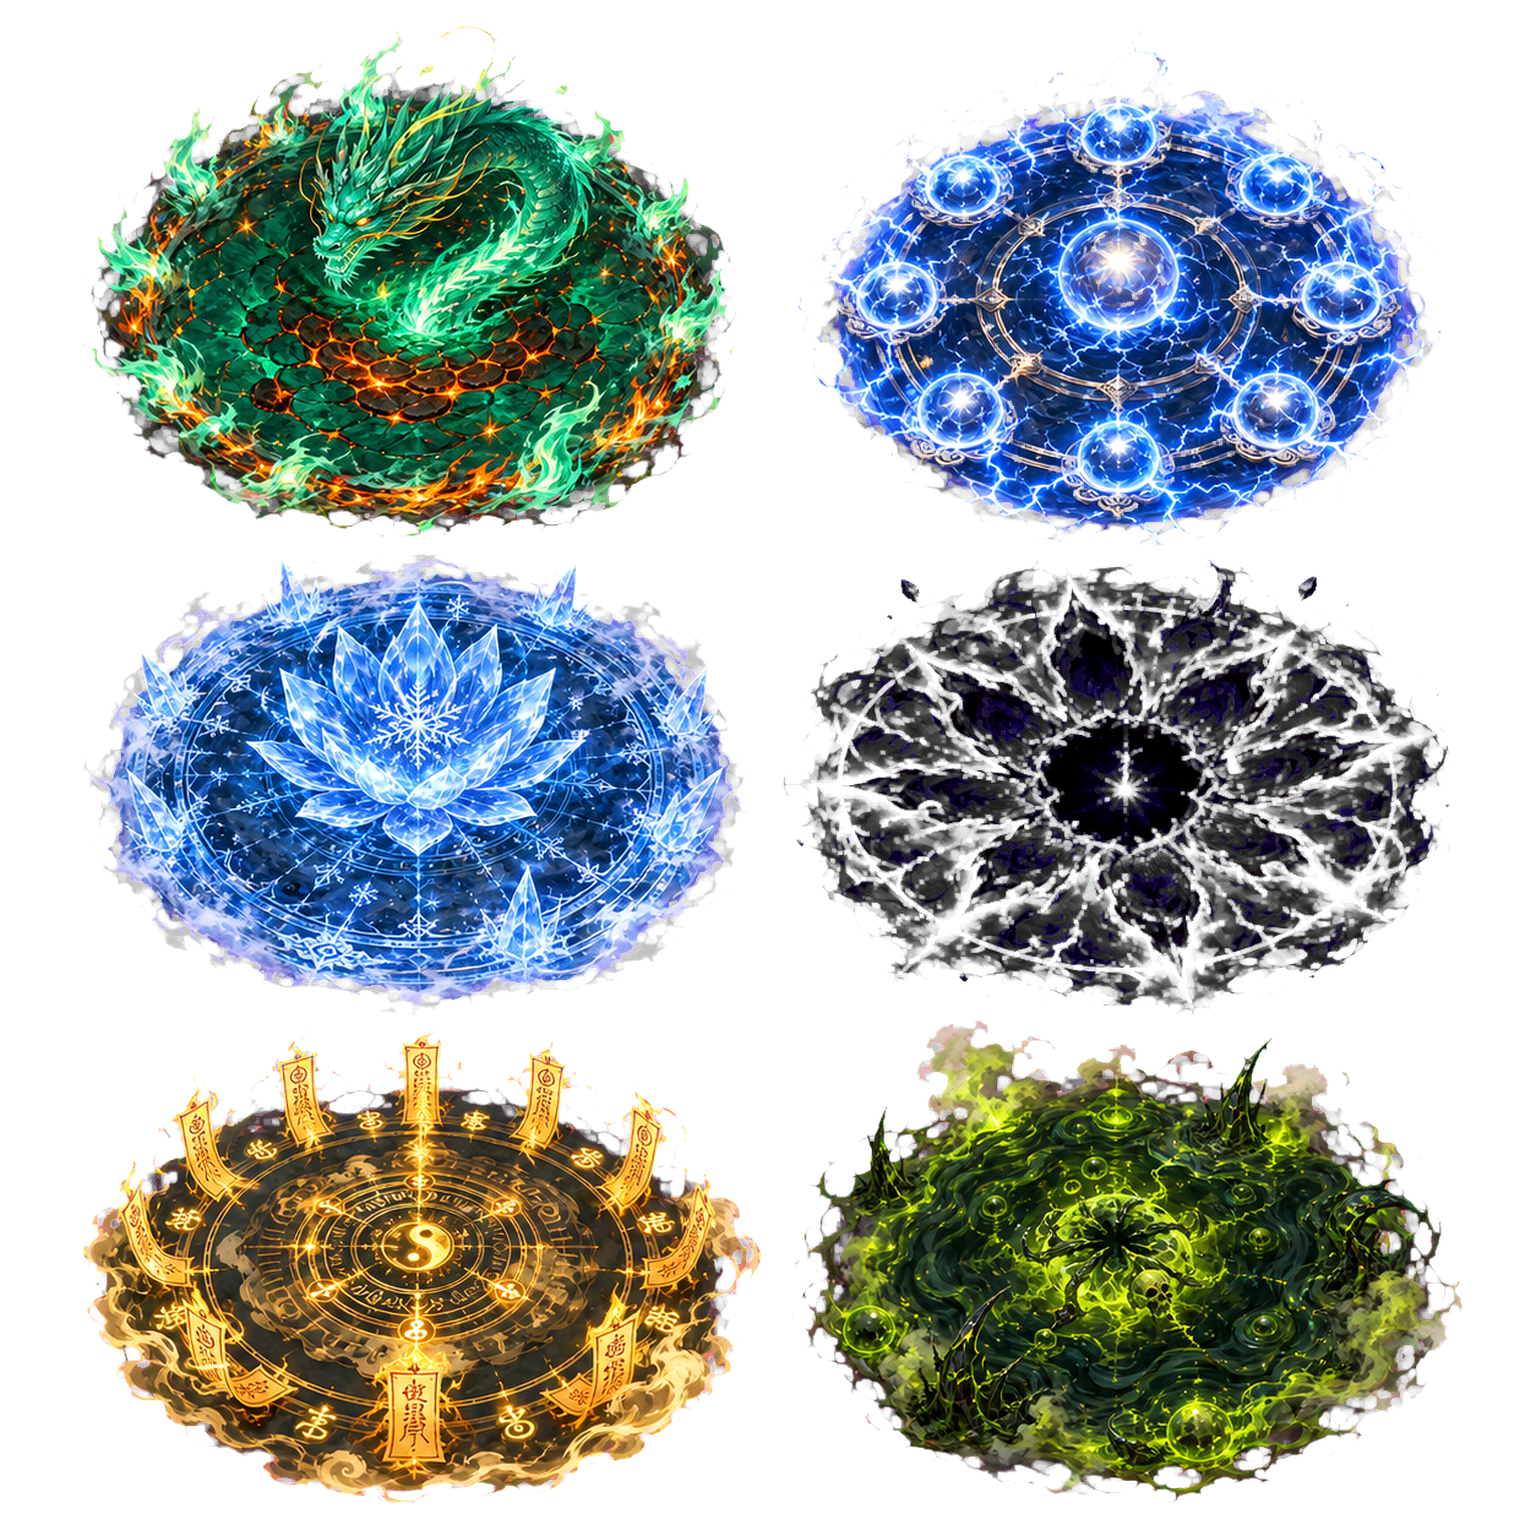
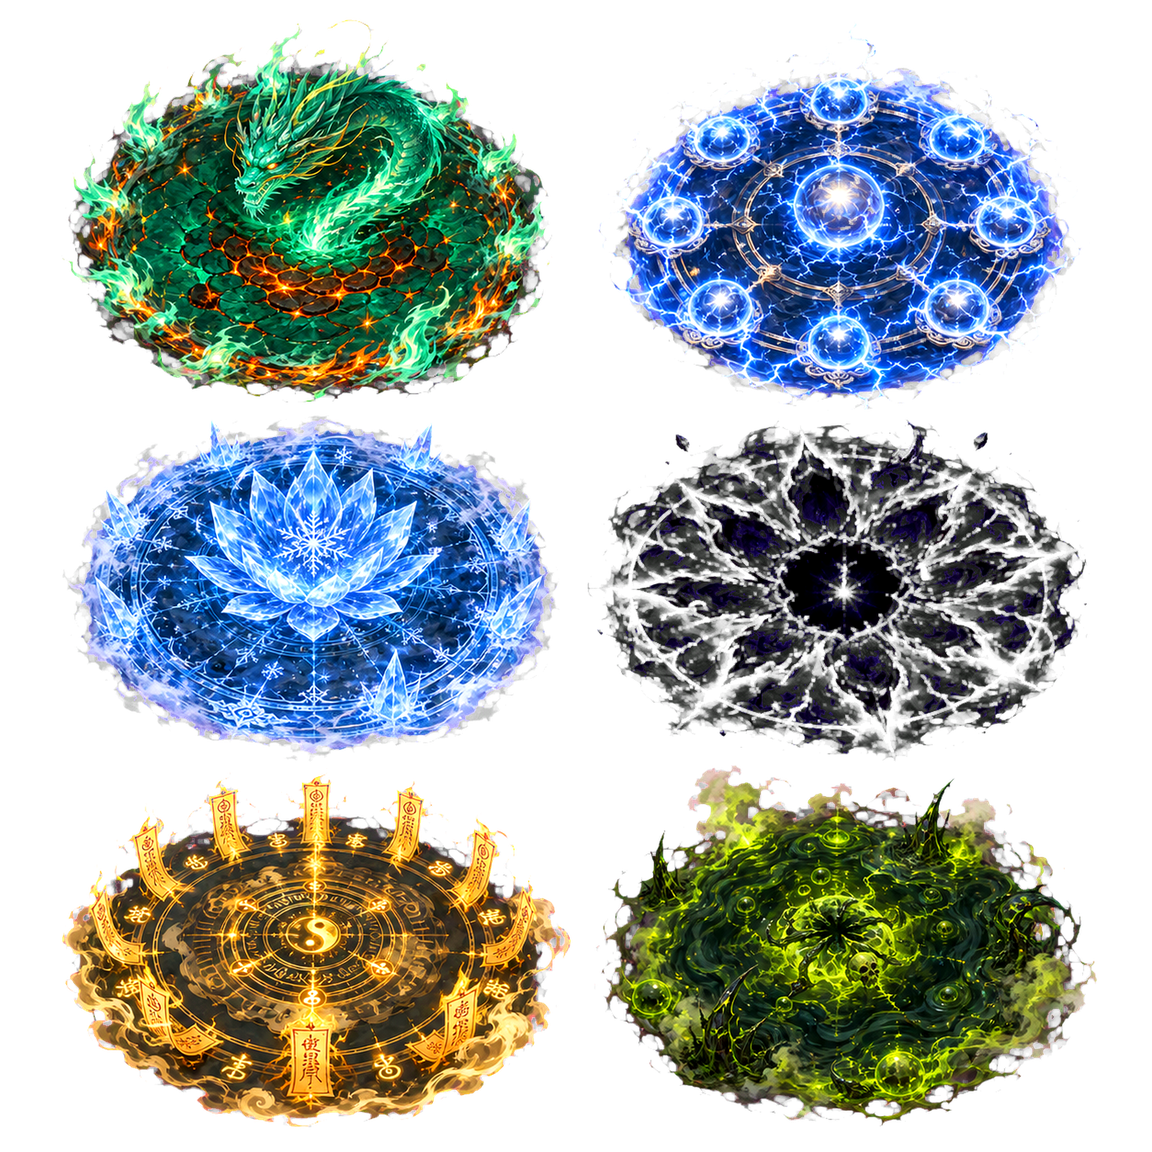
Prevent legacy area effect overlap

diff --git a/game.js b/game.js
@@ -535,12 +535,12 @@
   };
 
   const areaEventFrames = {
-    fireDragonField: { x: 0, y: 0, w: 768, h: 512 },
-    thunderPearlArray: { x: 768, y: 0, w: 768, h: 512 },
-    frostLotusField: { x: 0, y: 512, w: 768, h: 512 },
-    voidCrackField: { x: 768, y: 512, w: 768, h: 512 },
-    talismanSealField: { x: 0, y: 1024, w: 768, h: 512 },
-    plagueMireField: { x: 768, y: 1024, w: 768, h: 512 }
+    fireDragonField: { x: 0, y: 0, w: 576, h: 384 },
+    thunderPearlArray: { x: 576, y: 0, w: 576, h: 384 },
+    frostLotusField: { x: 0, y: 384, w: 576, h: 384 },
+    voidCrackField: { x: 576, y: 384, w: 576, h: 384 },
+    talismanSealField: { x: 0, y: 768, w: 576, h: 384 },
+    plagueMireField: { x: 576, y: 768, w: 576, h: 384 }
   };
 
   const hitFrames = {
@@ -963,7 +963,7 @@
     forceNextChestEvolution: false,
     lastResult: null,
     quality: { pressure: 0, avgWorkMs: 0 },
-    qa: { mode: null, autoChoices: false, autoMove: false, timeScale: 1, maxSteps: 1, syncRunning: false, syncSteps: 0, syncMs: 0, visualDone: false, groundDecalDraws: 0, areaEventDraws: 0, areaFxDraws: 0, environmentPropDraws: 0, atmosphereDraws: 0, swarmPressureDraws: 0, heroFxDraws: 0, screenStrikeDraws: 0, ultimateCastDraws: 0, unitAuraDraws: 0, hitAtlasDraws: 0, threatDraws: 0, hordeSpriteDraws: 0, hordeSpritesSkipped: 0, hordeRenderBudget: 0, hordeBudgetUsed: 0, projectileSpriteDraws: 0, projectilesSkipped: 0, projectileRenderBudget: 0, motionTrailDraws: 0, motionTrailRenderBudget: 0, hostileProjectileDraws: 0, hostileProjectilesSkipped: 0, hostileProjectileRenderBudget: 0, particlesRendered: 0, particlesCulled: 0, swarmImpostorDraws: 0, legacyWorldOverlays: 0, legacyVectorOverlays: 0, legacyFallbackFx: 0, legacyCombatAtlasDraws: 0, premiumAtlasFxDraws: 0, renderDpr: 1 },
+    qa: { mode: null, autoChoices: false, autoMove: false, timeScale: 1, maxSteps: 1, syncRunning: false, syncSteps: 0, syncMs: 0, visualDone: false, groundDecalDraws: 0, areaEventDraws: 0, areaFxDraws: 0, environmentPropDraws: 0, atmosphereDraws: 0, swarmPressureDraws: 0, heroFxDraws: 0, screenStrikeDraws: 0, ultimateCastDraws: 0, unitAuraDraws: 0, hitAtlasDraws: 0, threatDraws: 0, hordeSpriteDraws: 0, hordeSpritesSkipped: 0, hordeRenderBudget: 0, hordeBudgetUsed: 0, projectileSpriteDraws: 0, projectilesSkipped: 0, projectileRenderBudget: 0, motionTrailDraws: 0, motionTrailRenderBudget: 0, hostileProjectileDraws: 0, hostileProjectilesSkipped: 0, hostileProjectileRenderBudget: 0, particlesRendered: 0, particlesCulled: 0, swarmImpostorDraws: 0, legacyWorldOverlays: 0, legacyVectorOverlays: 0, legacyAreaFallbackDraws: 0, legacyFallbackFx: 0, legacyCombatAtlasDraws: 0, premiumAtlasFxDraws: 0, renderDpr: 1 },
     wave: 1,
     spawnTimer: 0,
     eliteSchedule: [90, 180, 300, 450, 600, 760],
@@ -1457,6 +1457,7 @@
     state.qa.particlesCulled = 0;
     state.qa.legacyWorldOverlays = 0;
     state.qa.legacyVectorOverlays = 0;
+    state.qa.legacyAreaFallbackDraws = 0;
     state.qa.legacyFallbackFx = 0;
     state.qa.legacyCombatAtlasDraws = 0;
     state.qa.premiumAtlasFxDraws = 0;
@@ -3130,6 +3131,7 @@
     document.body.dataset.qaSwarmImpostorDraws = String(state.qa.swarmImpostorDraws || 0);
     document.body.dataset.qaLegacyWorldOverlays = String(state.qa.legacyWorldOverlays || 0);
     document.body.dataset.qaLegacyVectorOverlays = String(state.qa.legacyVectorOverlays || 0);
+    document.body.dataset.qaLegacyAreaFallbackDraws = String(state.qa.legacyAreaFallbackDraws || 0);
     document.body.dataset.qaLegacyFallbackFx = String(state.qa.legacyFallbackFx || 0);
     document.body.dataset.qaLegacyCombatAtlasDraws = String(state.qa.legacyCombatAtlasDraws || 0);
     document.body.dataset.qaPremiumAtlasFxDraws = String(state.qa.premiumAtlasFxDraws || 0);
@@ -3361,6 +3363,7 @@
     resize();
     state.qa.legacyWorldOverlays = 0;
     state.qa.legacyVectorOverlays = 0;
+    state.qa.legacyAreaFallbackDraws = 0;
     state.qa.legacyFallbackFx = 0;
     state.qa.legacyCombatAtlasDraws = 0;
     state.qa.premiumAtlasFxDraws = 0;
@@ -4149,6 +4152,7 @@
   function drawSoftAreaFallback(area, x, y, alpha, now, compact = false) {
     if (!allowLegacyFallbackFx()) return false;
     recordLegacyFallbackFx();
+    if (QA_MODE) state.qa.legacyAreaFallbackDraws = (state.qa.legacyAreaFallbackDraws || 0) + 1;
     const stretch = area.kind === "plagueDomain" || area.kind === "poison" || area.kind === "fireSea" ? 1.18 : 1;
     const radius = area.r * (compact ? 0.82 : 1);
     ctx.save();
@@ -6258,8 +6262,7 @@
     };
   }
 
-  function areaEventSpec(area, now) {
-    if (!premiumAreaEventAtlasReady()) return null;
+  function areaEventFrameId(area) {
     let id = null;
     if (area.kind === "voidSeal") id = "voidCrackField";
     else if (area.kind === "plagueDomain" || area.kind === "poison") id = "plagueMireField";
@@ -6271,6 +6274,11 @@
       else if (area.color === weapons.poisonMist.color || area.color === weapons.plagueDomain.color || area.color === colors.poison) id = "plagueMireField";
       else if (area.color === weapons.talisman.color || area.color === weapons.voidSeal.color || area.color === colors.gold || area.color === colors.violet) id = "talismanSealField";
     }
+    return id;
+  }
+
+  function areaEventSpec(area, now, id = areaEventFrameId(area)) {
+    if (!premiumAreaEventAtlasReady()) return null;
     if (!id) return null;
     const pulse = 1 + Math.sin(now / 360 + area.x * 0.013 + area.y * 0.007) * 0.018;
     const wideField = id === "fireDragonField" || id === "plagueMireField" || id === "voidCrackField";
@@ -6314,7 +6322,7 @@
     const viewH = window.innerHeight;
     const compactViewport = Math.min(viewW, viewH) < 560;
     const groundDecalBudget = scaledRenderBudget(compactViewport ? 8 : denseAreas ? GROUND_DECAL_DENSE_LIMIT : 160, compactViewport ? 4 : denseAreas ? 9 : 42, 0.62);
-    const areaEventBudget = premiumAreaEventAtlasReady() ? scaledRenderBudget(compactViewport ? 3 : denseAreas ? 8 : 24, compactViewport ? 1 : denseAreas ? 4 : 10, 0.62) : 0;
+    const areaEventBudget = premiumAreaEventAtlasReady() ? scaledRenderBudget(compactViewport ? 3 : denseAreas ? 6 : 24, compactViewport ? 1 : denseAreas ? 3 : 10, 0.62) : 0;
     const heroFxAreaBudget = premiumHeroFxAtlasReady() ? scaledRenderBudget(compactViewport ? 1 : denseAreas ? 2 : 8, compactViewport ? 1 : 1, 0.68) : 0;
     const screenStrikeAreaBudget = premiumScreenStrikeAtlasReady() ? scaledRenderBudget(compactViewport ? 1 : denseAreas ? 2 : 10, compactViewport ? 1 : 1, 0.68) : 0;
     const areaFxBudget = compactViewport ? scaledRenderBudget(10, 5, 0.62) : denseAreas ? scaledRenderBudget(18, 8, 0.62) : Infinity;
@@ -6334,20 +6342,22 @@
         ctx.restore();
         continue;
       }
-      const groundSpec = groundDecalDraws < groundDecalBudget ? areaGroundDecalSpec(area, now) : null;
-      if (groundSpec && drawGroundDecalFrame(groundSpec.id, s.x, s.y, groundSpec.w, groundSpec.h, groundSpec.alpha * alpha, groundSpec.rotation, "source-over")) {
-        groundDecalDraws += 1;
-      }
       let premiumAreaOverlayDrawn = false;
-      const eventSpec = areaEventDraws < areaEventBudget ? areaEventSpec(area, now) : null;
+      const premiumAreaEventId = premiumAreaEventAtlasReady() ? areaEventFrameId(area) : null;
+      const eventSpec = premiumAreaEventId && areaEventDraws < areaEventBudget ? areaEventSpec(area, now, premiumAreaEventId) : null;
       if (eventSpec && drawAreaEventFrame(eventSpec.id, s.x, s.y, eventSpec.w, eventSpec.h, eventSpec.alpha * alpha, eventSpec.rotation, "source-over")) {
         areaFxDraws += 1;
         areaEventDraws += 1;
-        premiumAreaOverlayDrawn = true;
-        if (denseAreas || !ENABLE_SECONDARY_COMBAT_OVERLAYS) {
-          ctx.restore();
-          continue;
-        }
+        ctx.restore();
+        continue;
+      }
+      if (premiumAreaEventId) {
+        ctx.restore();
+        continue;
+      }
+      const groundSpec = groundDecalDraws < groundDecalBudget ? areaGroundDecalSpec(area, now) : null;
+      if (groundSpec && drawGroundDecalFrame(groundSpec.id, s.x, s.y, groundSpec.w, groundSpec.h, groundSpec.alpha * alpha, groundSpec.rotation, "source-over")) {
+        groundDecalDraws += 1;
       }
       const strikeSpec = screenStrikeAreaDraws < screenStrikeAreaBudget ? areaScreenStrikeSpec(area, now) : null;
       if (strikeSpec && drawScreenStrikeFrame(strikeSpec.id, s.x, s.y, strikeSpec.w, strikeSpec.h, strikeSpec.alpha * alpha, strikeSpec.rotation, "lighter")) {
@@ -7326,6 +7336,7 @@
             particleRenderBudget: fxParticleRenderBudget(),
             legacyWorldOverlays: state.qa.legacyWorldOverlays || 0,
             legacyVectorOverlays: state.qa.legacyVectorOverlays || 0,
+            legacyAreaFallbackDraws: state.qa.legacyAreaFallbackDraws || 0,
             legacyFallbackFx: state.qa.legacyFallbackFx || 0,
             legacyCombatAtlasDraws: state.qa.legacyCombatAtlasDraws || 0,
             premiumAtlasFxDraws: state.qa.premiumAtlasFxDraws || 0,
@@ -7379,6 +7390,7 @@
         state.qa.swarmImpostorDraws = 0;
         state.qa.legacyWorldOverlays = 0;
         state.qa.legacyVectorOverlays = 0;
+        state.qa.legacyAreaFallbackDraws = 0;
         state.qa.legacyFallbackFx = 0;
         state.qa.legacyCombatAtlasDraws = 0;
         state.qa.premiumAtlasFxDraws = 0;

diff --git a/index.html b/index.html
@@ -145,6 +145,6 @@
     <div id="touchStick"></div>
   </div>
 
-  <script src="game.js?v=area-event-v1"></script>
+  <script src="game.js?v=area-event-v2"></script>
 </body>
 </html>

diff --git a/README.md b/README.md
@@ -58,7 +58,7 @@ python -m http.server 4173
 
 ## 区域技能视觉
 
-`assets/premium-area-event-atlas-v1.png` 是当前区域技能主视觉图集，用于火海、雷阵、冰莲、虚空裂隙、金符封印和毒瘴池。运行时优先绘制这一个 premium 地面事件层；高怪量或手机视口下会降低绘制预算，避免区域技能、屏幕冲击和英雄光环重复堆叠导致画面糊成一片。
+`assets/premium-area-event-atlas-v1.png` 是当前区域技能主视觉图集，用于火海、雷阵、冰莲、虚空裂隙、金符封印和毒瘴池。运行时这个 premium 地面事件层是独占主视觉；命中后不再叠加旧地面贴花、屏幕冲击、英雄光环或 canvas 兜底椭圆。高怪量或手机视口下会降低绘制预算，避免区域技能视觉糊成一片。
 
 ## 验证入口
 